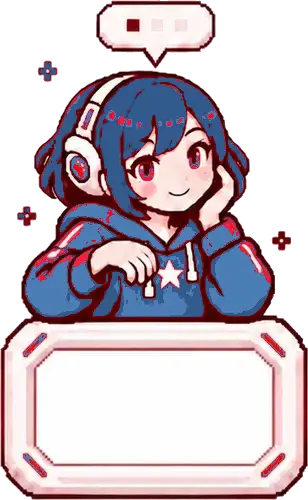
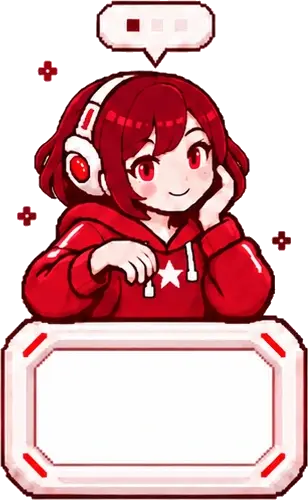
fix: remove laptop (red-framed white box) from mentor girl animation, keep resting frame only, restore red hoodie

diff --git a/frontend/app.js b/frontend/app.js
@@ -305,23 +305,6 @@ function mentorPage() {
       make("div", { className: "mentor-sidebar-bottom" }, make("span", { text: "当前会话" }), make("strong", { text: me?.name || me?.username || "学生" })));
     const menu = make("details", { className: "mentor-mobile-menu" }, make("summary", { "aria-label": "打开工作区菜单" }, icon("M4 7h16 M4 12h16 M4 17h16", "菜单")), make("nav", { "aria-label": "学生工作区" }, navLinks()));
     const girlImg = mentorGirl();
-    let girlTimers = [];
-    const setGirlFrame = n => { girlImg.src = "/girl/frame_" + n + ".webp"; };
-    const clearGirlTimers = () => { girlTimers.forEach(clearTimeout); girlTimers = []; };
-    const playGirlTyping = () => {
-      clearGirlTimers();
-      let i = 1;
-      const introDurs = [320, 300, 260, 240];
-      const step = () => {
-        if (i <= 4) { setGirlFrame(i); girlTimers.push(setTimeout(step, introDurs[i - 1])); i++; }
-        else { let t = 0; const loop = () => { setGirlFrame(5 + (t % 3)); t++; girlTimers.push(setTimeout(loop, 240)); }; loop(); }
-      };
-      step();
-    };
-    const playGirlBack = () => {
-      clearGirlTimers();
-      [4, 3, 2, 1, 0].forEach((n, idx) => { girlTimers.push(setTimeout(() => setGirlFrame(n), idx * 180)); });
-    };
     const hero = make("div", { className: "mentor-hero" },
       make("div", { className: "mentor-girl", "aria-hidden": "true" }, girlImg),
       make("div", { className: "mentor-titlebox" },
@@ -346,7 +329,7 @@ function mentorPage() {
       const displayQuestion = file ? "检查文件：" + file.name + (question ? "\n" + question : "") : question;
       appendMessage({ role: "user", content: displayQuestion });
       const loading = appendMessage({ role: "assistant", content: file ? "正在读取文档文字…" : status.enabled ? "正在思考…" : "正在检索…" });
-      playGirlTyping();
+      girlImg.classList.add("mentor-girl-busy");
       textarea.value = ""; resize(); scrollEnd();
       try {
         let result;
@@ -367,7 +350,7 @@ function mentorPage() {
           appendMessage({ role: "assistant", content: result.sources?.length ? "找到以下相关资料：" : "目前没有找到相关资料，请换个更具体的问法。", sources: result.sources });
         }
       } catch (error) { loading.remove(); appendMessage({ role: "assistant", content: error.message + "。请稍后重试。" }); }
-      finally { playGirlBack(); release(); attach.disabled = false; scrollEnd(); textarea.focus(); }
+      finally { girlImg.classList.remove("mentor-girl-busy"); release(); attach.disabled = false; scrollEnd(); textarea.focus(); }
     });
   } catch (error) { shell.replaceChildren(notice(error.message, "error")); } })();
   return shell;

diff --git a/public/mentor.css b/public/mentor.css
@@ -199,6 +199,11 @@
   transition: transform .3s ease;
 }
 .mentor-girl-img { display: block; width: 100%; height: 100%; object-fit: contain; image-rendering: pixelated; user-select: none; -webkit-user-drag: none; pointer-events: none; }
+.mentor-girl-busy { animation: mentor-busy 1.3s ease-in-out infinite; }
+@keyframes mentor-busy {
+  0%, 100% { transform: translateX(-50%) rotate(0deg); }
+  50% { transform: translateX(-50%) rotate(2deg); }
+}
 .mentor-titlebox {
   position: absolute;
   top: 116px;
